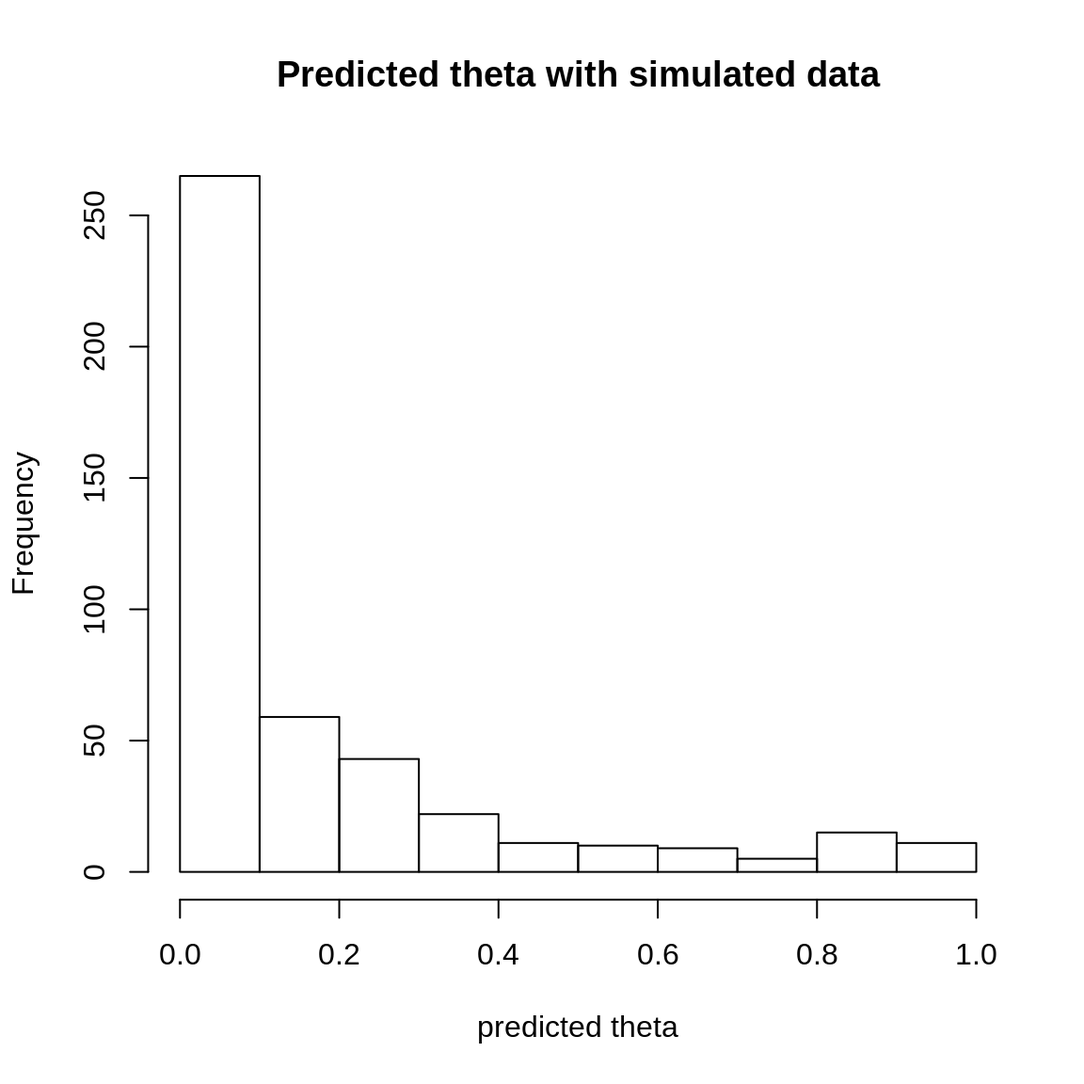
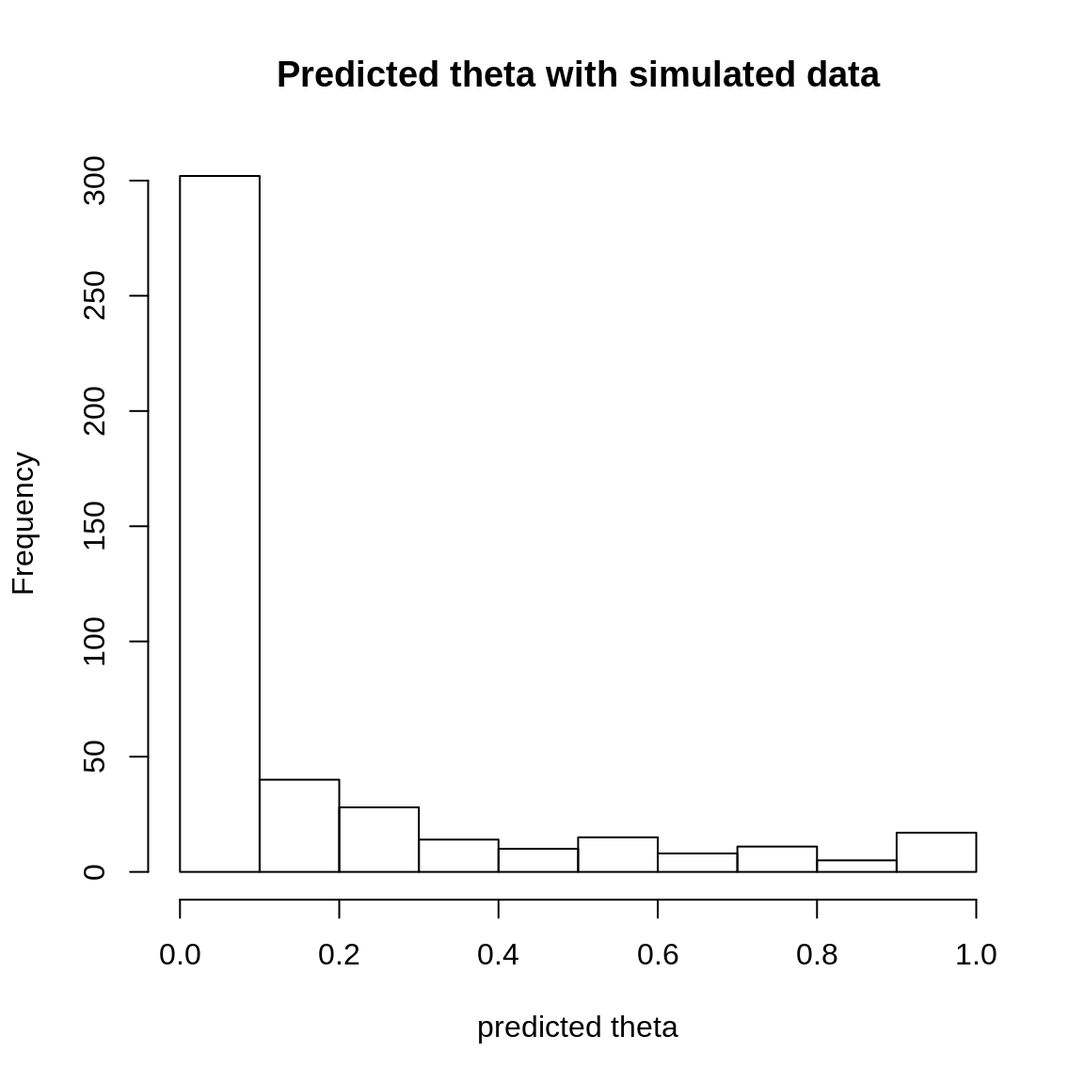
Deploy ghislainv/jSDM to github.com/ghislainv/jSDM.git:gh-pages

diff --git a/reference/jSDM_binomial_probit_block.html b/reference/jSDM_binomial_probit_block.html
@@ -6,7 +6,7 @@
 <meta http-equiv="X-UA-Compatible" content="IE=edge">
 <meta name="viewport" content="width=device-width, initial-scale=1.0">
 
-<title>Binomial probit regression model — jSDM_binomial_probit_block_rand_site • jSDM</title>
+<title>Binomial probit regression model — jSDM_binomial_probit_block • jSDM</title>
 
 <!-- favicons -->
 <link rel="icon" type="image/png" sizes="16x16" href="../favicon-16x16.png">
@@ -46,8 +46,8 @@
 
 
 
-<meta property="og:title" content="Binomial probit regression model — jSDM_binomial_probit_block_rand_site" />
-<meta property="og:description" content="The jSDM_binomial_probit_block_rand_site function performs a Binomial probit regression in a Bayesian framework. The function calls a Gibbs sampler written in C++ code which uses conjugate priors to estimate the conditional posterior distribution of model's parameters." />
+<meta property="og:title" content="Binomial probit regression model — jSDM_binomial_probit_block" />
+<meta property="og:description" content="The jSDM_binomial_probit_block function performs a Binomial probit regression in a Bayesian framework. The function calls a Gibbs sampler written in C++ code which uses conjugate priors to estimate the conditional posterior distribution of model's parameters." />
 <meta property="og:image" content="/logo.png" />
 
 
@@ -144,15 +144,15 @@
   <div class="col-md-9 contents">
     <div class="page-header">
     <h1>Binomial probit regression model</h1>
-    <small class="dont-index">Source: <a href='https://github.com/ghislainv/jSDM/blob/master/R/jSDM_binomial_probit_block_rand_site.R'><code>R/jSDM_binomial_probit_block_rand_site.R</code></a></small>
-    <div class="hidden name"><code>jSDM_binomial_probit_block_rand_site.Rd</code></div>
+    <small class="dont-index">Source: <a href='https://github.com/ghislainv/jSDM/blob/master/R/jSDM_binomial_probit_block.R'><code>R/jSDM_binomial_probit_block.R</code></a></small>
+    <div class="hidden name"><code>jSDM_binomial_probit_block.Rd</code></div>
     </div>
 
     <div class="ref-description">
-    <p>The <code>jSDM_binomial_probit_block_rand_site</code> function performs a Binomial probit regression in a Bayesian framework. The function calls a Gibbs sampler written in C++ code which uses conjugate priors to estimate the conditional posterior distribution of model's parameters.</p>
+    <p>The <code>jSDM_binomial_probit_block</code> function performs a Binomial probit regression in a Bayesian framework. The function calls a Gibbs sampler written in C++ code which uses conjugate priors to estimate the conditional posterior distribution of model's parameters.</p>
     </div>
 
-    <pre class="usage"><span class='fu'>jSDM_binomial_probit_block_rand_site</span>(
+    <pre class="usage"><span class='fu'>jSDM_binomial_probit_block</span>(
   <span class='kw'>burnin</span> <span class='kw'>=</span> <span class='fl'>5000</span>,
   <span class='kw'>mcmc</span> <span class='kw'>=</span> <span class='fl'>15000</span>,
   <span class='kw'>thin</span> <span class='kw'>=</span> <span class='fl'>10</span>,
@@ -160,10 +160,6 @@
   <span class='no'>site_suitability</span>,
   <span class='no'>site_data</span>,
   <span class='kw'>beta_start</span> <span class='kw'>=</span> <span class='fl'>0</span>,
-  <span class='kw'>alpha_start</span> <span class='kw'>=</span> <span class='fl'>0</span>,
-  <span class='kw'>V_alpha_start</span> <span class='kw'>=</span> <span class='fl'>1</span>,
-  <span class='kw'>shape</span> <span class='kw'>=</span> <span class='fl'>0.5</span>,
-  <span class='kw'>rate</span> <span class='kw'>=</span> <span class='fl'>5e-04</span>,
   <span class='kw'>mu_beta</span> <span class='kw'>=</span> <span class='fl'>0</span>,
   <span class='kw'>V_beta</span> <span class='kw'>=</span> <span class='fl'>1e+06</span>,
   <span class='kw'>seed</span> <span class='kw'>=</span> <span class='fl'>1234</span>,
@@ -202,22 +198,6 @@
       <td><p>Starting values for beta parameters of the suitability process for each species must be either a scalar or a \(p \times n_{species}\) matrix. If <code>beta_start</code> takes a scalar value, then that value will serve for all of the betas.</p></td>
     </tr>
     <tr>
-      <th>alpha_start</th>
-      <td><p>Starting values for random site effect parameters must be either a scalar or a nsite-length vector. If <code>alpha_start</code> takes a scalar value, then that value will serve for all of the alphas.</p></td>
-    </tr>
-    <tr>
-      <th>V_alpha_start</th>
-      <td><p>Starting value for variance of random site effect must be a stricly positive scalar.</p></td>
-    </tr>
-    <tr>
-      <th>shape</th>
-      <td><p>Shape parameter of the Inverse-Gamma prior for the random site effect variance <code>V_alpha</code>. Must be a stricly positive scalar. Default to 0.5 for weak informative prior.</p></td>
-    </tr>
-    <tr>
-      <th>rate</th>
-      <td><p>Rate parameter of the Inverse-Gamma prior for the random site effect variance <code>V_alpha</code>. Must be a stricly positive scalar. Default to 0.0005 for weak informative prior.</p></td>
-    </tr>
-    <tr>
       <th>mu_beta</th>
       <td><p>Means of the Normal priors for the \(\beta\) parameters of the suitability process. <code>mu_beta</code> must be either a scalar or a p-length vector. If <code>mu_beta</code> takes a scalar value, then that value will serve as the prior mean for all of the betas. The default value is set to 0 for an uninformative prior.</p></td>
     </tr>
@@ -238,10 +218,8 @@
     <h2 class="hasAnchor" id="value"><a class="anchor" href="#value"></a>Value</h2>
 
     <p>An object of class <code>"jSDM"</code> acting like a list including :</p><table class='table'>
-<tr><td>mcmc.alpha</td><td>An mcmc object that contains the posterior samples for alphas. This object can be summarized by functions provided by the coda package.</td></tr>
-<tr><td>mcmc.V_alpha</td><td>An mcmc object that contains the posterior samples for variance of random site effect.</td></tr>
 <tr><td>mcmc.sp</td><td>A list by species of mcmc objects that contains the posterior samples for betas.</td></tr>
-<tr><td>mcmc.Deviance</td><td>The posterior sample of the deviance \(D\), with \(D=-2\log(\prod_{ij} P(y_{ij}|\beta_j, \alpha_i))\), is also provided.</td></tr>
+<tr><td>mcmc.Deviance</td><td>The posterior sample of the deviance \(D\), with \(D=-2\log(\prod_{ij} P(y_{ij}|\beta_j))\), is also provided.</td></tr>
 <tr><td>Z_latent</td><td>Predictive posterior mean of the latent variable Z.</td></tr>
 <tr><td>probit_theta_pred</td><td>Predictive posterior mean of the probability to each species to be present on each site, transformed by probit link function.</td></tr>
 <tr><td>model_spec</td><td>Various attributes of the model fitted, including the response and model matrix used, distributional assumptions as link function, family and number of latent variables, hyperparameters used in the Bayesian estimation and mcmc, burnin and thin.</td></tr>
@@ -253,8 +231,7 @@
     <p>We model an ecological process where the presence or absence of the species is explained by habitat suitability.
 <b>Ecological process:</b>
 $$y_{ij} \sim \mathcal{B}ernoulli(\theta_{ij})$$
-$$probit(\theta_{ij}) = \beta_{0j} + X_i \beta_j  + \alpha_i $$
-where \(\alpha_i \sim \mathcal{N}(0,V_\alpha)\)</p>
+$$probit(\theta_{ij}) = \beta_{0j} + X_i \beta_j$$</p>
     <h2 class="hasAnchor" id="references"><a class="anchor" href="#references"></a>References</h2>
 
     
@@ -270,7 +247,7 @@ where \(\alpha_i \sim \mathcal{N}(0,V_\alpha)\)</p>
 
     <h2 class="hasAnchor" id="examples"><a class="anchor" href="#examples"></a>Examples</h2>
     <pre class="examples"><div class='input'><span class='co'>#==============================================</span>
-<span class='co'># jSDM_binomial_probit_block_rand_site()</span>
+<span class='co'># jSDM_binomial_probit_block()</span>
 <span class='co'># Example with simulated data</span>
 <span class='co'>#==============================================</span>
 
@@ -295,10 +272,8 @@ where \(\alpha_i \sim \mathcal{N}(0,V_\alpha)\)</p>
 <span class='no'>X</span> <span class='kw'>&lt;-</span> <span class='fu'><a href='https://rdrr.io/r/base/data.frame.html'>data.frame</a></span>(<span class='kw'>Int</span><span class='kw'>=</span><span class='fu'><a href='https://rdrr.io/r/base/rep.html'>rep</a></span>(<span class='fl'>1</span>,<span class='no'>nsite</span>),<span class='kw'>x1</span><span class='kw'>=</span><span class='no'>x1</span>,<span class='kw'>x2</span><span class='kw'>=</span><span class='no'>x2</span>)
 <span class='no'>beta.target</span> <span class='kw'>&lt;-</span> <span class='fu'><a href='https://rdrr.io/r/base/t.html'>t</a></span>(<span class='fu'><a href='https://rdrr.io/r/base/matrix.html'>matrix</a></span>(<span class='fu'><a href='https://rdrr.io/r/stats/Uniform.html'>runif</a></span>(<span class='no'>nsp</span>*<span class='fu'><a href='https://rdrr.io/r/base/nrow.html'>ncol</a></span>(<span class='no'>X</span>),-<span class='fl'>2</span>,<span class='fl'>2</span>),
                 <span class='kw'>byrow</span><span class='kw'>=</span><span class='fl'>TRUE</span>, <span class='kw'>nrow</span><span class='kw'>=</span><span class='no'>nsp</span>))
-<span class='no'>V_alpha.target</span> <span class='kw'>&lt;-</span> <span class='fl'>0.5</span>
 <span class='no'>V</span> <span class='kw'>&lt;-</span> <span class='fl'>1</span>
-<span class='no'>alpha.target</span> <span class='kw'>&lt;-</span> <span class='fu'><a href='https://rdrr.io/r/stats/Normal.html'>rnorm</a></span>(<span class='no'>nsite</span>,<span class='fl'>0</span>,<span class='fu'><a href='https://rdrr.io/r/base/MathFun.html'>sqrt</a></span>(<span class='no'>V_alpha.target</span>))
-<span class='no'>probit_theta</span> <span class='kw'>&lt;-</span> <span class='fu'><a href='https://rdrr.io/r/base/matrix.html'>as.matrix</a></span>(<span class='no'>X</span>) <span class='kw'>%*%</span> <span class='no'>beta.target</span> + <span class='no'>alpha.target</span>
+<span class='no'>probit_theta</span> <span class='kw'>&lt;-</span> <span class='fu'><a href='https://rdrr.io/r/base/matrix.html'>as.matrix</a></span>(<span class='no'>X</span>) <span class='kw'>%*%</span> <span class='no'>beta.target</span>
 <span class='no'>e</span> <span class='kw'>&lt;-</span> <span class='fu'><a href='https://rdrr.io/r/base/matrix.html'>matrix</a></span>(<span class='fu'><a href='https://rdrr.io/r/stats/Normal.html'>rnorm</a></span>(<span class='no'>nsp</span>*<span class='no'>nsite</span>,<span class='fl'>0</span>,<span class='fu'><a href='https://rdrr.io/r/base/MathFun.html'>sqrt</a></span>(<span class='no'>V</span>)),<span class='no'>nsite</span>,<span class='no'>nsp</span>)
 <span class='no'>Z_true</span> <span class='kw'>&lt;-</span> <span class='no'>probit_theta</span> + <span class='no'>e</span>
 <span class='no'>Y</span> <span class='kw'>&lt;-</span> <span class='fu'><a href='https://rdrr.io/r/base/matrix.html'>matrix</a></span> (<span class='fl'>NA</span>, <span class='no'>nsite</span>,<span class='no'>nsp</span>)
@@ -313,23 +288,20 @@ where \(\alpha_i \sim \mathcal{N}(0,V_\alpha)\)</p>
 <span class='co'>#== Site-occupancy model</span>
 
 <span class='co'># Increase number of iterations (burnin and mcmc) to get convergence </span>
-<span class='no'>mod</span><span class='kw'>&lt;-</span><span class='fu'>jSDM_binomial_probit_block_rand_site</span>(<span class='co'># Chains</span>
-                                          <span class='kw'>burnin</span><span class='kw'>=</span><span class='fl'>100</span>,
-                                          <span class='kw'>mcmc</span><span class='kw'>=</span><span class='fl'>100</span>,
-                                          <span class='kw'>thin</span><span class='kw'>=</span><span class='fl'>1</span>,
-                                          <span class='co'># Response variable</span>
-                                          <span class='kw'>presence_site_sp</span> <span class='kw'>=</span> <span class='no'>Y</span> ,
-                                          <span class='co'># Explanatory variables </span>
-                                          <span class='kw'>site_suitability</span><span class='kw'>=</span> ~<span class='no'>x1</span>+<span class='no'>x2</span>,
-                                          <span class='kw'>site_data</span> <span class='kw'>=</span> <span class='no'>X</span>,
-                                          <span class='co'># Starting values </span>
-                                          <span class='kw'>alpha_start</span><span class='kw'>=</span><span class='fl'>0</span>,
-                                          <span class='kw'>beta_start</span><span class='kw'>=</span><span class='fl'>0</span>,
-                                          <span class='kw'>V_alpha_start</span><span class='kw'>=</span><span class='fl'>1</span>,
-                                          <span class='co'># Priors </span>
-                                          <span class='kw'>shape</span><span class='kw'>=</span><span class='fl'>0.5</span>, <span class='kw'>rate</span><span class='kw'>=</span><span class='fl'>0.0005</span>,
-                                          <span class='kw'>mu_beta</span><span class='kw'>=</span><span class='fl'>0</span>, <span class='kw'>V_beta</span><span class='kw'>=</span><span class='fl'>1.0E6</span>,
-                                          <span class='kw'>seed</span><span class='kw'>=</span><span class='fl'>1234</span>, <span class='kw'>verbose</span><span class='kw'>=</span><span class='fl'>1</span>)</div><div class='output co'>#&gt; 
+<span class='no'>mod</span><span class='kw'>&lt;-</span><span class='fu'>jSDM_binomial_probit_block</span>(<span class='co'># Chains</span>
+                                <span class='kw'>burnin</span><span class='kw'>=</span><span class='fl'>100</span>,
+                                <span class='kw'>mcmc</span><span class='kw'>=</span><span class='fl'>100</span>,
+                                <span class='kw'>thin</span><span class='kw'>=</span><span class='fl'>1</span>,
+                                <span class='co'># Response variable</span>
+                                <span class='kw'>presence_site_sp</span> <span class='kw'>=</span> <span class='no'>Y</span> ,
+                                <span class='co'># Explanatory variables </span>
+                                <span class='kw'>site_suitability</span><span class='kw'>=</span> ~<span class='no'>x1</span>+<span class='no'>x2</span>,
+                                <span class='kw'>site_data</span> <span class='kw'>=</span> <span class='no'>X</span>,
+                                <span class='co'># Starting values </span>
+                                <span class='kw'>beta_start</span><span class='kw'>=</span><span class='fl'>0</span>,
+                                <span class='co'># Priors </span>
+                                <span class='kw'>mu_beta</span><span class='kw'>=</span><span class='fl'>0</span>, <span class='kw'>V_beta</span><span class='kw'>=</span><span class='fl'>1.0E6</span>,
+                                <span class='kw'>seed</span><span class='kw'>=</span><span class='fl'>1234</span>, <span class='kw'>verbose</span><span class='kw'>=</span><span class='fl'>1</span>)</div><div class='output co'>#&gt; 
 #&gt; Running the Gibbs sampler. It may be long, please keep cool :)
 #&gt; 
 #&gt; **********:10.0% 
@@ -349,24 +321,6 @@ where \(\alpha_i \sim \mathcal{N}(0,V_\alpha)\)</p>
 <span class='co'>#== Outputs</span>
 
 <span class='co'>#= Parameter estimates</span>
-
-<span class='co'>## alpha</span>
-<span class='co'># summary(mod$mcmc.alpha)</span>
-<span class='fu'><a href='https://rdrr.io/r/grDevices/pdf.html'>pdf</a></span>(<span class='kw'>file</span><span class='kw'>=</span><span class='fu'><a href='https://rdrr.io/r/base/file.path.html'>file.path</a></span>(<span class='fu'><a href='https://rdrr.io/r/base/tempfile.html'>tempdir</a></span>(), <span class='st'>"Posteriors_alpha_jSDM_probit_block.pdf"</span>))
-<span class='fu'><a href='https://rdrr.io/r/graphics/plot.html'>plot</a></span>(<span class='no'>alpha.target</span>, <span class='fu'><a href='https://rdrr.io/r/base/summary.html'>summary</a></span>(<span class='no'>mod</span>$<span class='no'>mcmc.alpha</span>)<span class='kw'>[[</span><span class='fl'>1</span>]][,<span class='st'>"Mean"</span>],
-     <span class='kw'>xlab</span> <span class='kw'>=</span><span class='st'>"alphas target"</span>, <span class='kw'>ylab</span> <span class='kw'>=</span><span class='st'>"alphas estimated"</span>)
-<span class='fu'><a href='https://rdrr.io/r/graphics/abline.html'>abline</a></span>(<span class='kw'>a</span><span class='kw'>=</span><span class='fl'>0</span>,<span class='kw'>b</span><span class='kw'>=</span><span class='fl'>1</span>,<span class='kw'>col</span><span class='kw'>=</span><span class='st'>'red'</span>)
-<span class='fu'><a href='https://rdrr.io/r/grDevices/dev.html'>dev.off</a></span>()</div><div class='output co'>#&gt; pdf 
-#&gt;   2 </div><div class='input'>
-<span class='co'>## Valpha</span>
-<span class='co'># summary(mod$mcmc.V_alpha)</span>
-<span class='fu'><a href='https://rdrr.io/r/grDevices/pdf.html'>pdf</a></span>(<span class='kw'>file</span><span class='kw'>=</span><span class='fu'><a href='https://rdrr.io/r/base/file.path.html'>file.path</a></span>(<span class='fu'><a href='https://rdrr.io/r/base/tempfile.html'>tempdir</a></span>(), <span class='st'>"Posteriors_Valpha_jSDM_probit_block.pdf"</span>))
-<span class='fu'><a href='https://rdrr.io/r/graphics/par.html'>par</a></span>(<span class='kw'>mfrow</span><span class='kw'>=</span><span class='fu'><a href='https://rdrr.io/r/base/c.html'>c</a></span>(<span class='fl'>1</span>,<span class='fl'>2</span>))
-<span class='kw pkg'>coda</span><span class='kw ns'>::</span><span class='fu'><a href='https://rdrr.io/pkg/coda/man/traceplot.html'>traceplot</a></span>(<span class='no'>mod</span>$<span class='no'>mcmc.V_alpha</span>)
-<span class='kw pkg'>coda</span><span class='kw ns'>::</span><span class='fu'><a href='https://rdrr.io/pkg/coda/man/densplot.html'>densplot</a></span>(<span class='no'>mod</span>$<span class='no'>mcmc.V_alpha</span>)
-<span class='fu'><a href='https://rdrr.io/r/graphics/abline.html'>abline</a></span>(<span class='kw'>v</span><span class='kw'>=</span><span class='no'>V_alpha.target</span>,<span class='kw'>col</span><span class='kw'>=</span><span class='st'>'red'</span>)
-<span class='fu'><a href='https://rdrr.io/r/grDevices/dev.html'>dev.off</a></span>()</div><div class='output co'>#&gt; pdf 
-#&gt;   2 </div><div class='input'>
 <span class='co'>## beta_j</span>
 <span class='co'># summary(mod$mcmc.sp$sp_1)</span>
 <span class='fu'><a href='https://rdrr.io/r/grDevices/pdf.html'>pdf</a></span>(<span class='kw'>file</span><span class='kw'>=</span><span class='fu'><a href='https://rdrr.io/r/base/file.path.html'>file.path</a></span>(<span class='fu'><a href='https://rdrr.io/r/base/tempfile.html'>tempdir</a></span>(), <span class='st'>"Posteriors_beta_jSDM_probit_block.pdf"</span>))
@@ -396,13 +350,13 @@ where \(\alpha_i \sim \mathcal{N}(0,V_\alpha)\)</p>
 #&gt;    plus standard error of the mean:
 #&gt; 
 #&gt;           Mean             SD       Naive SE Time-series SE 
-#&gt;        175.925         11.706          1.171          3.307 
+#&gt;       173.6847         3.9915         0.3992         0.4788 
 #&gt; 
 #&gt; 2. Quantiles for each variable:
 #&gt; 
 #&gt;  2.5%   25%   50%   75% 97.5% 
-#&gt; 154.5 168.7 175.6 183.2 198.5 
-#&gt; </div><div class='input'><span class='fu'><a href='https://rdrr.io/r/graphics/plot.html'>plot</a></span>(<span class='no'>mod</span>$<span class='no'>mcmc.Deviance</span>)</div><div class='img'><img src='jSDM_binomial_probit_block_rand_site-1.png' alt='' width='700' height='433' /></div><div class='input'>
+#&gt; 166.5 171.0 173.3 175.2 181.6 
+#&gt; </div><div class='input'><span class='fu'><a href='https://rdrr.io/r/graphics/plot.html'>plot</a></span>(<span class='no'>mod</span>$<span class='no'>mcmc.Deviance</span>)</div><div class='img'><img src='jSDM_binomial_probit_block-1.png' alt='' width='700' height='433' /></div><div class='input'>
 <span class='co'>#= Predictions</span>
 
 <span class='fu'><a href='https://rdrr.io/r/grDevices/pdf.html'>pdf</a></span>(<span class='kw'>file</span><span class='kw'>=</span><span class='fu'><a href='https://rdrr.io/r/base/file.path.html'>file.path</a></span>(<span class='fu'><a href='https://rdrr.io/r/base/tempfile.html'>tempdir</a></span>(), <span class='st'>"Pred-Init.pdf"</span>))

diff --git a/reference/jSDM_binomial_probit_block_lv.html b/reference/jSDM_binomial_probit_block_lv.html
@@ -245,7 +245,7 @@
     <p>An object of class <code>"jSDM"</code> acting like a list including :</p><table class='table'>
 <tr><td>mcmc.latent</td><td>A list by latent variable of mcmc objects that contains the posterior samples for latent variables Ws.</td></tr>
 <tr><td>mcmc.sp</td><td>A list by species of mcmc objects that contains the posterior samples for betas and lambdas.</td></tr>
-<tr><td>mcmc.Deviance</td><td>The posterior sample of the deviance \(D\), with \(D=-2\log(\prod_{ij} P(y_{ij}|\beta_j,\lambda_j, \alpha_i, W_i))\), is also provided.</td></tr>
+<tr><td>mcmc.Deviance</td><td>The posterior sample of the deviance \(D\), with \(D=-2\log(\prod_{ij} P(y_{ij}|\beta_j,\lambda_j, W_i))\), is also provided.</td></tr>
 <tr><td>Z_latent</td><td>Predictive posterior mean of the latent variable Z.</td></tr>
 <tr><td>probit_theta_pred</td><td>Predictive posterior mean of the probability to each species to be present on each site, transformed by probit link function.</td></tr>
 <tr><td>model_spec</td><td>Various attributes of the model fitted, including the response and model matrix used, distributional assumptions as link function, family and number of latent variables, hyperparameters used in the Bayesian estimation and mcmc, burnin and thin.</td></tr>
@@ -257,7 +257,7 @@
     <p>We model an ecological process where the presence or absence of the species is explained by habitat suitability.
 <b>Ecological process:</b>
 $$y_{ij} \sim \mathcal{B}ernoulli(\theta_{ij})$$
-$$probit(\theta_{ij}) = \beta_{0j} + X_i \beta_j + W_i \lambda_j + \alpha_i $$
+$$probit(\theta_{ij}) = \beta_{0j} + X_i \beta_j + W_i \lambda_j$$
 #' @references</p><table class='table'>
 <tr><td>Chib, S. and Greenberg, E. (1998) Analysis of multivariate probit models. <em>Biometrika</em>, 85, 347-361.</td></tr>
 <tr><td>Warton, D. I.; Blanchet, F. G.; O'Hara, R. B.; O'Hara, R. B.; Ovaskainen, O.; Taskinen, S.; Walker, S. C. and Hui, F. K. C. (2015) So Many Variables: Joint Modeling in Community Ecology. <em>Trends in Ecology &amp; Evolution</em>, 30, 766-779.</td></tr>

diff --git a/reference/jSDM-package.html b/reference/jSDM-package.html
@@ -173,7 +173,7 @@ jSDM_binomial_probit_block_rand_site_lvpresence-absence\(y_{ij} \sim \mathcal{B}
 <tr><td>jSDM_binomial_logit_lv</td><td>presence-absence</td><td>\(y_{ij} \sim \mathcal{B}inomial(\theta_{ij}, t_i) \ where, \ logit(\theta_{ij}) = X_i \beta_j + W_i \lambda_j\)</td></tr>
 <tr><td>jSDM_binomial_logit_rand_site_lv</td><td>presence-absence</td><td>\(y_{ij} \sim \mathcal{B}inomial(\theta_ij, t_i) \ where, \ logit(\theta_{ij}) = X_i \beta_j +  W_i \lambda_j + \alpha_i \ and \  \alpha_i \sim \mathcal{N}(0,V_{\alpha})\)</td></tr>
 <tr><td>jSDM_binomial_probit_block_one_species</td><td>presence-absence</td><td>\(y_n \sim \mathcal{B}inomial(\theta_n, t_n) \ where, \ probit(\theta_n) = X_n \beta\)</td></tr>
-<tr><td>jSDM_binomial_probit_block</td><td>presence-absence</td><td>\(y_{ij} \sim \mathcal{B}inomial(\theta_{ij}, t_i) \ where, \ probit(\theta_{ij}) = X_i \beta_j\)</td></tr>
+<tr><td><code><a href='jSDM_binomial_probit_block.html'>jSDM_binomial_probit_block</a></code></td><td>presence-absence</td><td>\(y_{ij} \sim \mathcal{B}inomial(\theta_{ij}, t_i) \ where, \ probit(\theta_{ij}) = X_i \beta_j\)</td></tr>
 <tr><td><code><a href='jSDM_binomial_probit_block_rand_site.html'>jSDM_binomial_probit_block_rand_site</a></code></td><td>presence-absence</td><td>\(y_{ij} \sim \mathcal{B}inomial(\theta_{ij}, t_i) \ where, \ probit(\theta_{ij}) = X_i \beta_j + \alpha_i \ and \  \alpha_i \sim \mathcal{N}(0,V_{\alpha})\)</td></tr>
 <tr><td><code><a href='jSDM_binomial_probit_block_lv.html'>jSDM_binomial_probit_block_lv</a></code></td><td>presence-absence</td><td>\(y_{ij} \sim \mathcal{B}inomial(\theta_{ij}, t_i) \ where, \ probit(\theta_{ij}) = X_i \beta_j + W_i \lambda_j\)</td></tr>
 <tr><td><code><a href='jSDM_binomial_probit_block_rand_site_lv.html'>jSDM_binomial_probit_block_rand_site_lv</a></code></td><td>presence-absence</td><td>\(y_{ij} \sim \mathcal{B}inomial(\theta_{ij}, t_i) \ where, \ probit(\theta_{ij}) = X_i \beta_j +  W_i \lambda_j + \alpha_i \ and \ \alpha_i \sim \mathcal{N}(0,V_{\alpha})\)</td></tr>

diff --git a/reference/predict.jSDM.html b/reference/predict.jSDM.html
@@ -208,7 +208,7 @@ used when <code>type="quantile"</code>.</p></td>
     <p>Return a vector for the predictive posterior mean when <code>type="mean"</code>, a data-frame with the mean and quantiles when <code>type="quantile"</code> or an <code>mcmc</code> object (see <code>coda</code> package) with posterior distribution for each prediction when <code>type="posterior"</code>.</p>
     <h2 class="hasAnchor" id="see-also"><a class="anchor" href="#see-also"></a>See also</h2>
 
-    <div class='dont-index'><p><code><a href='jSDM-package.html'>jSDM-package</a></code> <code><a href='jSDM_binomial_logit.html'>jSDM_binomial_logit</a></code>  <code><a href='jSDM_binomial_probit_block_lv.html'>jSDM_binomial_probit_block_lv</a></code> <code><a href='jSDM_binomial_probit_block_rand_site.html'>jSDM_binomial_probit_block_rand_site</a></code> <code><a href='jSDM_binomial_probit_block_rand_site_lv.html'>jSDM_binomial_probit_block_rand_site_lv</a></code></p></div>
+    <div class='dont-index'><p><code><a href='jSDM-package.html'>jSDM-package</a></code> <code><a href='jSDM_binomial_logit.html'>jSDM_binomial_logit</a></code> <code><a href='jSDM_binomial_probit_block.html'>jSDM_binomial_probit_block</a></code> <code><a href='jSDM_binomial_probit_block_lv.html'>jSDM_binomial_probit_block_lv</a></code> <code><a href='jSDM_binomial_probit_block_rand_site.html'>jSDM_binomial_probit_block_rand_site</a></code> <code><a href='jSDM_binomial_probit_block_rand_site_lv.html'>jSDM_binomial_probit_block_rand_site_lv</a></code></p></div>
 
     <h2 class="hasAnchor" id="examples"><a class="anchor" href="#examples"></a>Examples</h2>
     <pre class="examples"><div class='input'><span class='fu'><a href='https://rdrr.io/r/base/library.html'>library</a></span>(<span class='no'>jSDM</span>)

diff --git a/reference/get_residual_cor.html b/reference/get_residual_cor.html
@@ -183,7 +183,8 @@
 $$R_{ij} = \frac{\Sigma_{ij}}{\sqrt{\Sigma_ii\Sigma _jj}}$$.</p>
     <h2 class="hasAnchor" id="see-also"><a class="anchor" href="#see-also"></a>See also</h2>
 
-    <div class='dont-index'><p><code><a href='https://rdrr.io/r/stats/cor.html'>cov2cor</a></code></p></div>
+    <div class='dont-index'><p><code><a href='jSDM-package.html'>jSDM-package</a></code> <code><a href='jSDM_binomial_probit_block_lv.html'>jSDM_binomial_probit_block_lv</a></code> <code><a href='jSDM_binomial_probit_block_rand_site_lv.html'>jSDM_binomial_probit_block_rand_site_lv</a></code></p>
+<p><code><a href='https://rdrr.io/r/stats/cor.html'>cov2cor</a></code></p></div>
 
     <h2 class="hasAnchor" id="examples"><a class="anchor" href="#examples"></a>Examples</h2>
     <pre class="examples"><div class='input'><span class='fu'><a href='https://rdrr.io/r/base/library.html'>library</a></span>(<span class='no'>jSDM</span>)

diff --git a/reference/plot_residual_cor.html b/reference/plot_residual_cor.html
@@ -220,7 +220,8 @@
 
     <h2 class="hasAnchor" id="see-also"><a class="anchor" href="#see-also"></a>See also</h2>
 
-    <div class='dont-index'><p><code><a href='https://rdrr.io/pkg/corrplot/man/corrplot.html'>corrplot</a></code></p></div>
+    <div class='dont-index'><p><code><a href='jSDM-package.html'>jSDM-package</a></code> <code><a href='jSDM_binomial_probit_block_lv.html'>jSDM_binomial_probit_block_lv</a></code> <code><a href='jSDM_binomial_probit_block_rand_site_lv.html'>jSDM_binomial_probit_block_rand_site_lv</a></code></p>
+<p><code><a href='https://rdrr.io/pkg/corrplot/man/corrplot.html'>corrplot</a></code></p></div>
 
     <h2 class="hasAnchor" id="examples"><a class="anchor" href="#examples"></a>Examples</h2>
     <pre class="examples"><div class='input'><span class='fu'><a href='https://rdrr.io/r/base/library.html'>library</a></span>(<span class='no'>jSDM</span>)
